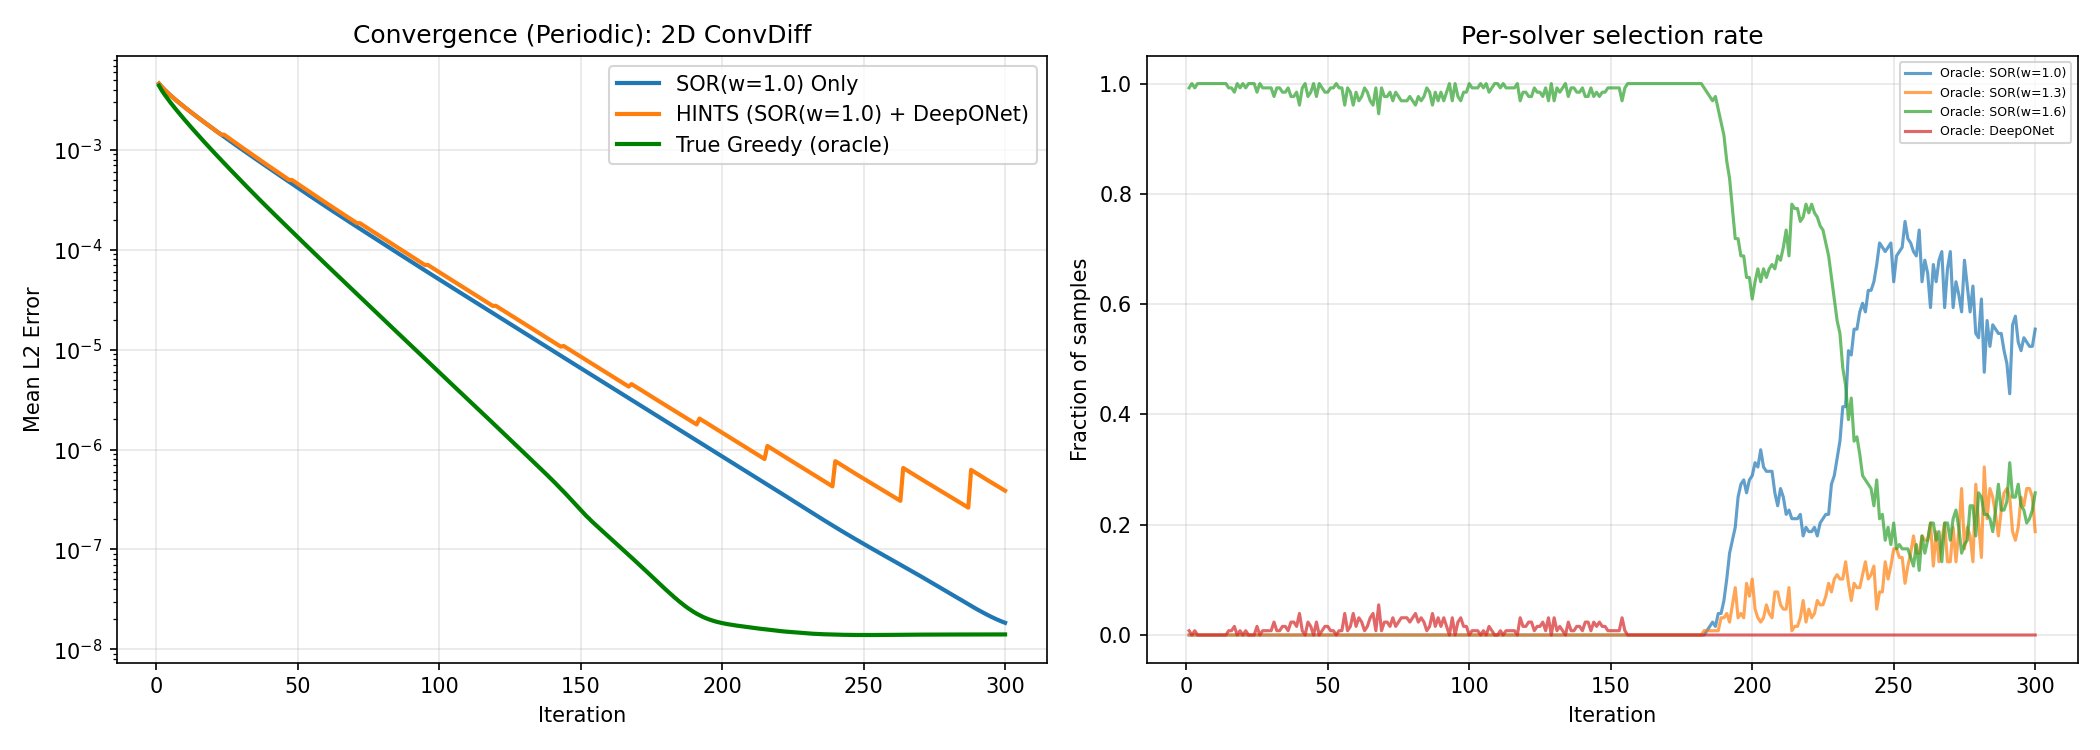
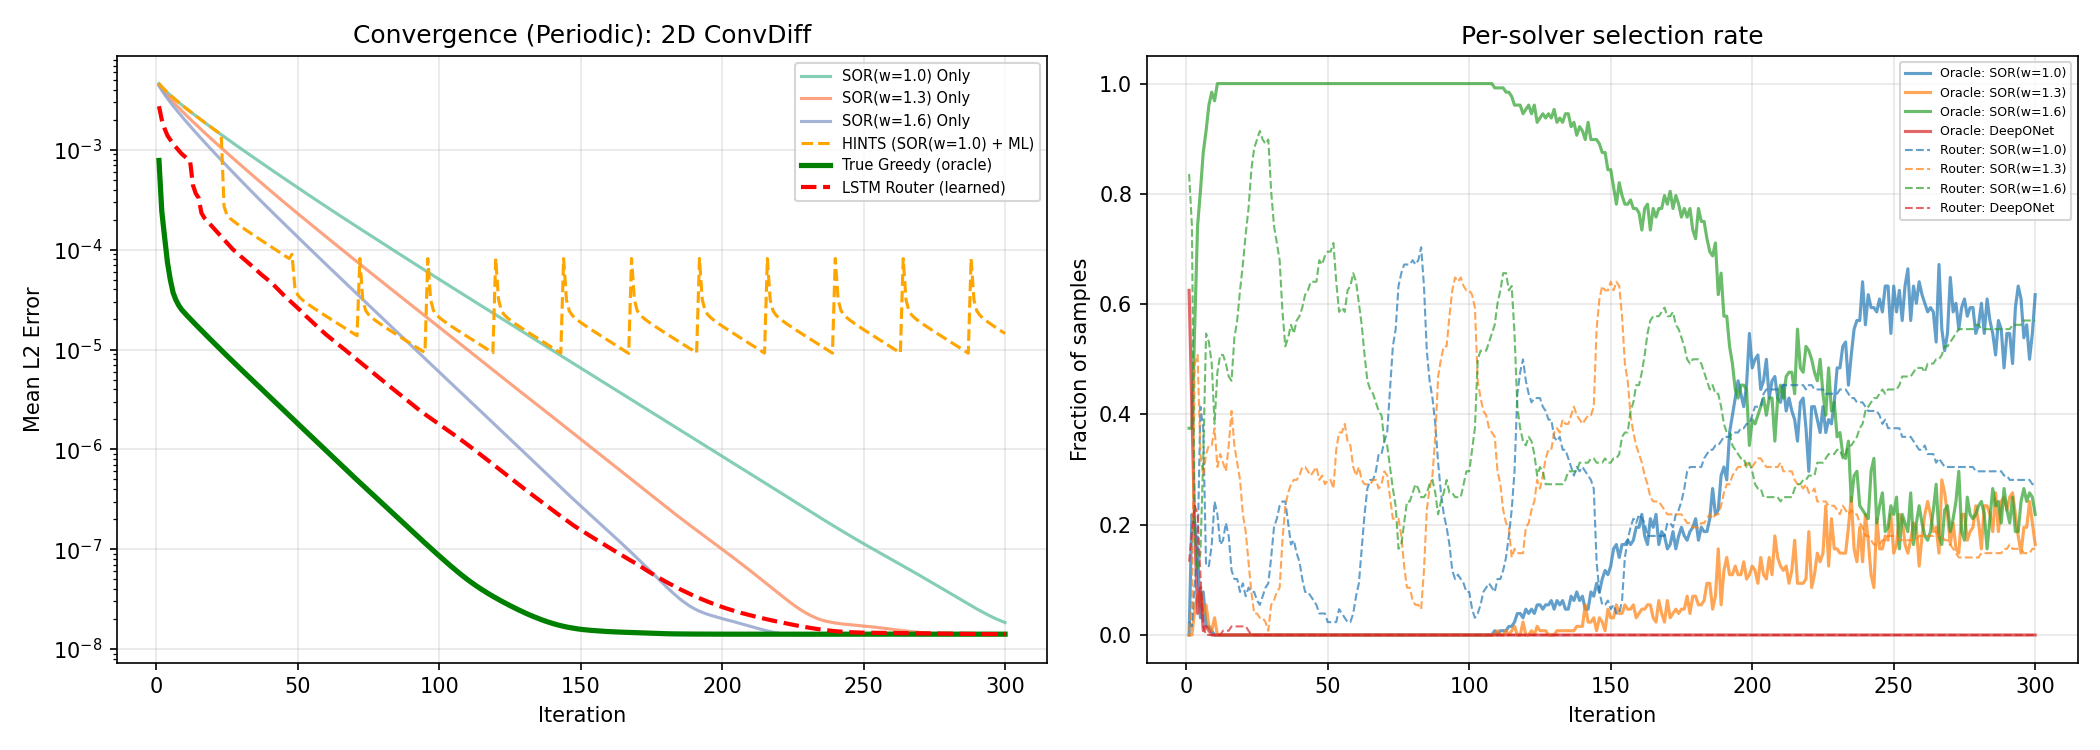
update

diff --git a/slides.md b/slides.md
@@ -275,8 +275,8 @@ class: text-center
 <div class="text-center p-3 rounded-lg bg-white/5 border border-red-400/40">
 
 <span class="text-red-400">**LSTM Router (learned)**</span>
-<br><span class="font-mono text-xs">Final L2: 8.99 × 10⁻⁶</span>
-<br><span class="font-mono text-xs text-red-400">AUC: 0.052 — 7.1× lower</span>
+<br><span class="font-mono text-xs">Final L2: 1.13 × 10⁻⁶</span>
+<br><span class="font-mono text-xs text-red-400">AUC: 0.024 — 15.5× lower</span>
 
 </div>
 <div class="text-center p-3 rounded-lg bg-white/5 border border-emerald-400/40">
@@ -307,9 +307,74 @@ class: text-center
 <div class="opacity-80">
 
 **Learned LSTM Router** — trained to imitate:
-- Captures SOR(1.3) dominance (~57%) and per-sample adaptation
-- Uses FNO at matching rate (0.5%) to the oracle
-- AUC: **0.052** — 7.1× better than best classical, still 59× gap to oracle
+- Captures SOR(1.6) dominance (~53%) and per-sample adaptation
+- Uses FNO at similar rate (0.6%) to the oracle
+- AUC: **0.024** — 15.5× better than best classical, still 27× gap to oracle
+
+</div>
+</div>
+
+---
+class: text-center
+---
+
+<div class="h-full flex flex-col items-center justify-center">
+<div class="text-xs tracking-widest uppercase opacity-30 mb-4">Results</div>
+<div class="text-4xl font-bold tracking-tight">2D Convection-Diffusion</div>
+<div class="mt-4 text-lg opacity-50">Oracle greedy routing — SOR(1.0) + SOR(1.3) + SOR(1.6) + FNO</div>
+</div>
+
+---
+
+# 2D ConvDiff: Convergence
+
+<img src="./images/convdiff_fno_convergence.png" class="w-full max-h-72 object-contain rounded-lg border-0" />
+
+<div class="grid grid-cols-3 gap-4 mt-3 text-sm">
+<div class="text-center p-3 rounded-lg bg-white/5 border border-white/10">
+
+**Best Classical (SOR 1.6)**
+<br><span class="font-mono text-xs">Final L2: 1.41 × 10⁻⁸</span>
+<br><span class="font-mono text-xs">AUC: 0.058</span>
+
+</div>
+<div class="text-center p-3 rounded-lg bg-white/5 border border-red-400/40">
+
+<span class="text-red-400">**LSTM Router (learned)**</span>
+<br><span class="font-mono text-xs">Final L2: 1.41 × 10⁻⁸</span>
+<br><span class="font-mono text-xs text-red-400">AUC: 0.020 — 2.9× lower</span>
+
+</div>
+<div class="text-center p-3 rounded-lg bg-white/5 border border-emerald-400/40">
+
+<span class="text-emerald-400">**Oracle Greedy**</span>
+<br><span class="font-mono text-xs">Final L2: 1.41 × 10⁻⁸</span>
+<br><span class="font-mono text-xs text-emerald-400">AUC: 1.78 × 10⁻³ — 33× lower</span>
+
+</div>
+</div>
+
+---
+
+# 2D ConvDiff: Routing Patterns
+
+<img src="./images/convdiff_routing_comparison.png" class="w-full max-h-72 object-contain rounded-lg border-0" />
+
+<div class="grid grid-cols-2 gap-6 mt-3 text-sm">
+<div class="opacity-80">
+
+**Oracle Greedy** — the upper bound:
+- **SOR(1.6)** dominates (~70%), **SOR(1.0)** ~23%, **SOR(1.3)** ~7%
+- FNO used sparingly (~0.5%) for targeted corrections
+- AUC: **1.78 × 10⁻³** — 33× better than best classical
+
+</div>
+<div class="opacity-80">
+
+**Learned LSTM Router** — trained to imitate:
+- Captures SOR(1.6) preference (~45%) with broader spread across variants
+- FNO usage (0.3%) approaching oracle rate
+- AUC: **0.020** — 2.9× better than best classical, still 11× gap to oracle
 
 </div>
 </div>
@@ -318,25 +383,37 @@ class: text-center
 
 # Results Summary
 
-<div class="mt-4">
+<div class="mt-2">
 
-| | **Best Classical (SOR 1.3)** | **LSTM Router (learned)** | **Oracle Greedy** |
+<div class="text-xs tracking-widest uppercase opacity-40 mb-2">2D Poisson</div>
+
+| | **Best Classical (SOR 1.3)** | **LSTM Router** | **Oracle Greedy** |
 |---|---|---|---|
-| **Final L2 Error** | 3.41 × 10⁻⁶ | 8.99 × 10⁻⁶ | **5.22 × 10⁻⁸** (65×↓) |
-| **AUC** | 0.371 | **0.052** (7.1×↓) | **8.77 × 10⁻⁴** (423×↓) |
-| **FNO usage** | — | 0.46% | 0.46% |
+| **AUC** | 0.371 | **0.024** (15.5×↓) | **8.77 × 10⁻⁴** (423×↓) |
+| **Final L2** | 3.41 × 10⁻⁶ | 1.13 × 10⁻⁶ | **5.22 × 10⁻⁸** |
+
+</div>
+
+<div class="mt-3">
+
+<div class="text-xs tracking-widest uppercase opacity-40 mb-2">2D Convection-Diffusion</div>
+
+| | **Best Classical (SOR 1.6)** | **LSTM Router** | **Oracle Greedy** |
+|---|---|---|---|
+| **AUC** | 0.058 | **0.020** (2.9×↓) | **1.78 × 10⁻³** (33×↓) |
+| **Final L2** | 1.41 × 10⁻⁸ | 1.41 × 10⁻⁸ | **1.41 × 10⁻⁸** |
 
 </div>
 
 <div class="mt-4 pl-4 border-l-2 border-emerald-400 opacity-80 text-sm">
 
-**Oracle greedy** routing with 3 SOR variants + an unrolled FNO achieves **423× lower AUC** than the best classical solver — establishing the ceiling for adaptive routing on 2D Poisson.
+**Oracle greedy** routing establishes large ceilings on both equations: **423×** (Poisson) and **33×** (ConvDiff) lower AUC than the best classical solver.
 
 </div>
 
 <div class="mt-3 pl-4 border-l-2 border-cyan-400 opacity-80 text-sm">
 
-The **learned LSTM router** already achieves **7.1× lower AUC** without access to the true solution. The 59× gap to the oracle suggests significant room for improving the learned policy.
+The **learned LSTM router** captures **15.5×** (Poisson) and **2.9×** (ConvDiff) improvements without privileged information — with significant room to close the gap to the oracle.
 
 </div>
 
